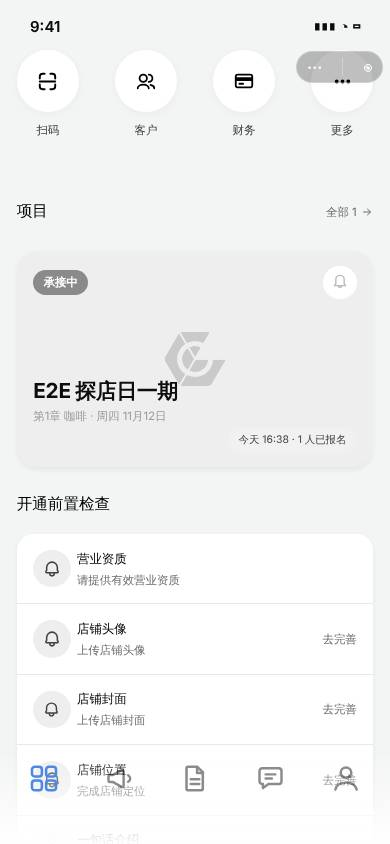
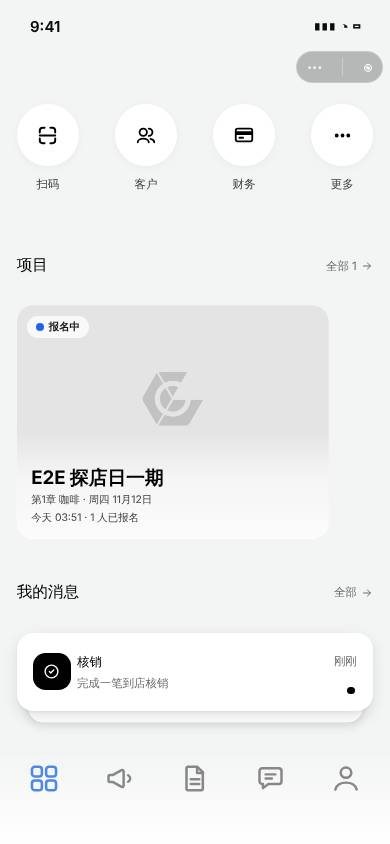
docs: l4-counter 第3轮结果与截图(M-04 在 #702 卡片上重拍,M-05/M-23/M-27/M-10 前后对照)
Claude-Session: https://claude.ai/code/session_01SUD7bR8qpgHRMmnywoq8vb

diff --git a/docs/delivery/walk-fix-20261102/l4-counter/RESULT.md b/docs/delivery/walk-fix-20261102/l4-counter/RESULT.md
@@ -54,4 +54,24 @@ The branch was merged with master 2f62e5a4 (40 commits, page-polish #711). Confl
 3. **M-04 wording.** The card shows the next session for the topic, including one that started earlier today and is still running. Recommended default: keep.
 4. **M-02 rejection list.** Codes rejected by permission (an inactive merchant gets HTTP 403) already showed 「请求被拒绝，未执行核销」, and I left them alone. Owner-only club checks (「仅俱乐部主理人可核销玩家票」) are now marked as not redeemed too.
 
-STATUS: PARTIAL - M-11 not done (needs owner); M-10 only partly fixed (window, CRM and project status left to owner); M-14 checked over HTTP only (no player-page shot)
+
+## Round 3
+
+Rig shots below come from the walkthrough rig (`claude/cloud-walk-20261101-rig`, club lane's harness patches applied), not a phone. Data: chain topic 990014, session 13 opened today (Shanghai 11-03 03:51), shop 9002 (探店日样板咖啡). "Before" for round-3 items is round 2's code (`58bc8a6c`) on the same data; "after" is `81445baf` (the product code on this branch). M-04 "before" is master `c6eac3b8` (#702's card) on the same data.
+
+| ID | Round 3 status | What changed | Evidence |
+|---|---|---|---|
+| M-05 | done | The custom `verify-result` panel and its 「操作结果」 header are gone. The result uses the existing `cy-result-sheet` with the success badge, as in `pages/merchant/customer`. Content kept: stop name (第1章 咖啡), 「请提供：<权益>」, and M-06's other-day warning. | `shots/M-05-r3-before.jpg` (round-2 panel with 「操作结果」 header) and `M-05-r3-after.jpg` (cy-result-sheet, green badge, 「这张票是 11月12日 的场次」 still shown). Fresh paid ticket, real `scan_qr_code`; DB read-back: redemption (reg 75, chapter 42, merchant 9002, ACTIVE), entitlement 42 → 1. |
+| M-23 | done | Same sheet. Both buttons still work in the rig: 「继续扫码」 closes the sheet and reopens the scanner (the next scan opened a new sheet), 「完成」 closes it. A repeated scan now shows 「已核销」 with the reason and no longer says 「请提供」. | `shots/M-23-r3-before.jpg` / `M-23-r3-after.jpg` (repeated scan of the same ticket). Unit test `walk-fix-1102-counter-result.test.js`. |
+| M-06 | kept | The other-day warning still shows inside the new sheet. | Visible in `M-05-r3-after.jpg` and `M-23-r3-after.jpg`. |
+| M-04 | done (re-shot) | No code change this round. Re-shot on #702's card (now on master). Before: master, card shows only 「第1章 咖啡 · 周四 11月12日」. After: this branch, the card adds 「今天 03:51 · 1 人已报名」. | `shots/M-04-before.jpg` / `M-04-after.jpg` (replaced). DB read-back: session 13 starts 2026-11-03 03:51 Shanghai, and has one paid registration (`cms_registration` owner 2/13, payment_status 2). Observation: the card's meta line 「周四 11月12日」 is the theme's date line from #702's card and is unchanged by this item; it can sit next to a 「今天」 session line. Left as is. |
+| M-27 | done | Removed the leading status dot and the trailing 「—」 on zero-cash rows. The row is now title, then time and status chip. **Time is the only field this table has**: the ledger row has no customer name, so nothing else can be shown. | `shots/M-27-r3-before.jpg` (dot + 「—」) and `M-27-r3-after.jpg`. Tests `merchant-ledger-display-contract`, `merchant-ledger-filter-motion-contract`. |
+| M-10 | done | Wording and counting now follow the owner's rule: only 主题 and 活动 exist. 我的内容 shows two tiles, 主题 (free-exploration themes count as 主题) and 活动; the 自由探索 tile is gone. The empty state says 「还没有主题和活动」 instead of 「还没有营销数据」. Round 2's SQL, which counted free-exploration tickets as this shop's sign-ups and payments, is reverted: an activity is an event its organiser runs, and a stop holder does not own those sign-ups. | `shots/M-10-r3-before.jpg` (three tiles: 主题 / 自由探索 / 活动) and `M-10-r3-after.jpg` (two tiles). Tests `merchant-marketing-state-contract`, `MerchantMarketingAnalyticsMapperContractTest`. |
+
+**Why M-10 before and after looked identical in round 2:** round 2 changed only the 营销 sign-up and payment SQL. The 近 30 天 window counts whole past days and leaves out today, and the rig's sessions were all today, so both shots read 0. 我的内容 counts content the shop published, and the shop had published none, so those tiles read 0 too. Nothing visible changed. This round's visible change is the tile set and the empty-state wording.
+
+**CI (round 3):** `Mini program unit shard (12/20)` failed on `action-ledger.test.js`: the component-event count was 2725, and the rebuilt ledger has 2726 after the switch to `cy-result-sheet` (one more component event). The ledger itself has no drift (a rebuild with `--write` leaves it unchanged). I updated the count, and `action-ledger.test.js` passes locally (46/46). `Mini program static checks` is an aggregate job that failed only because the unit shard failed. `node chengyinhub-xcx/tests/lint/ui-integrity.js` prints `UI-GATE-0:PASS`.
+
+**Rig note:** Docker Hub returned 429 for the pinned Redis image. The rig pulled the same digest from `mirror.gcr.io` (rig-only edit to the candidate worktree's registry file; not committed).
+
+STATUS: PARTIAL - round 3 items all done; still open from round 2: M-11 not done (needs owner), M-10 remaining window/CRM/project-status questions left to owner, M-14 checked over HTTP only (no player-page shot)
